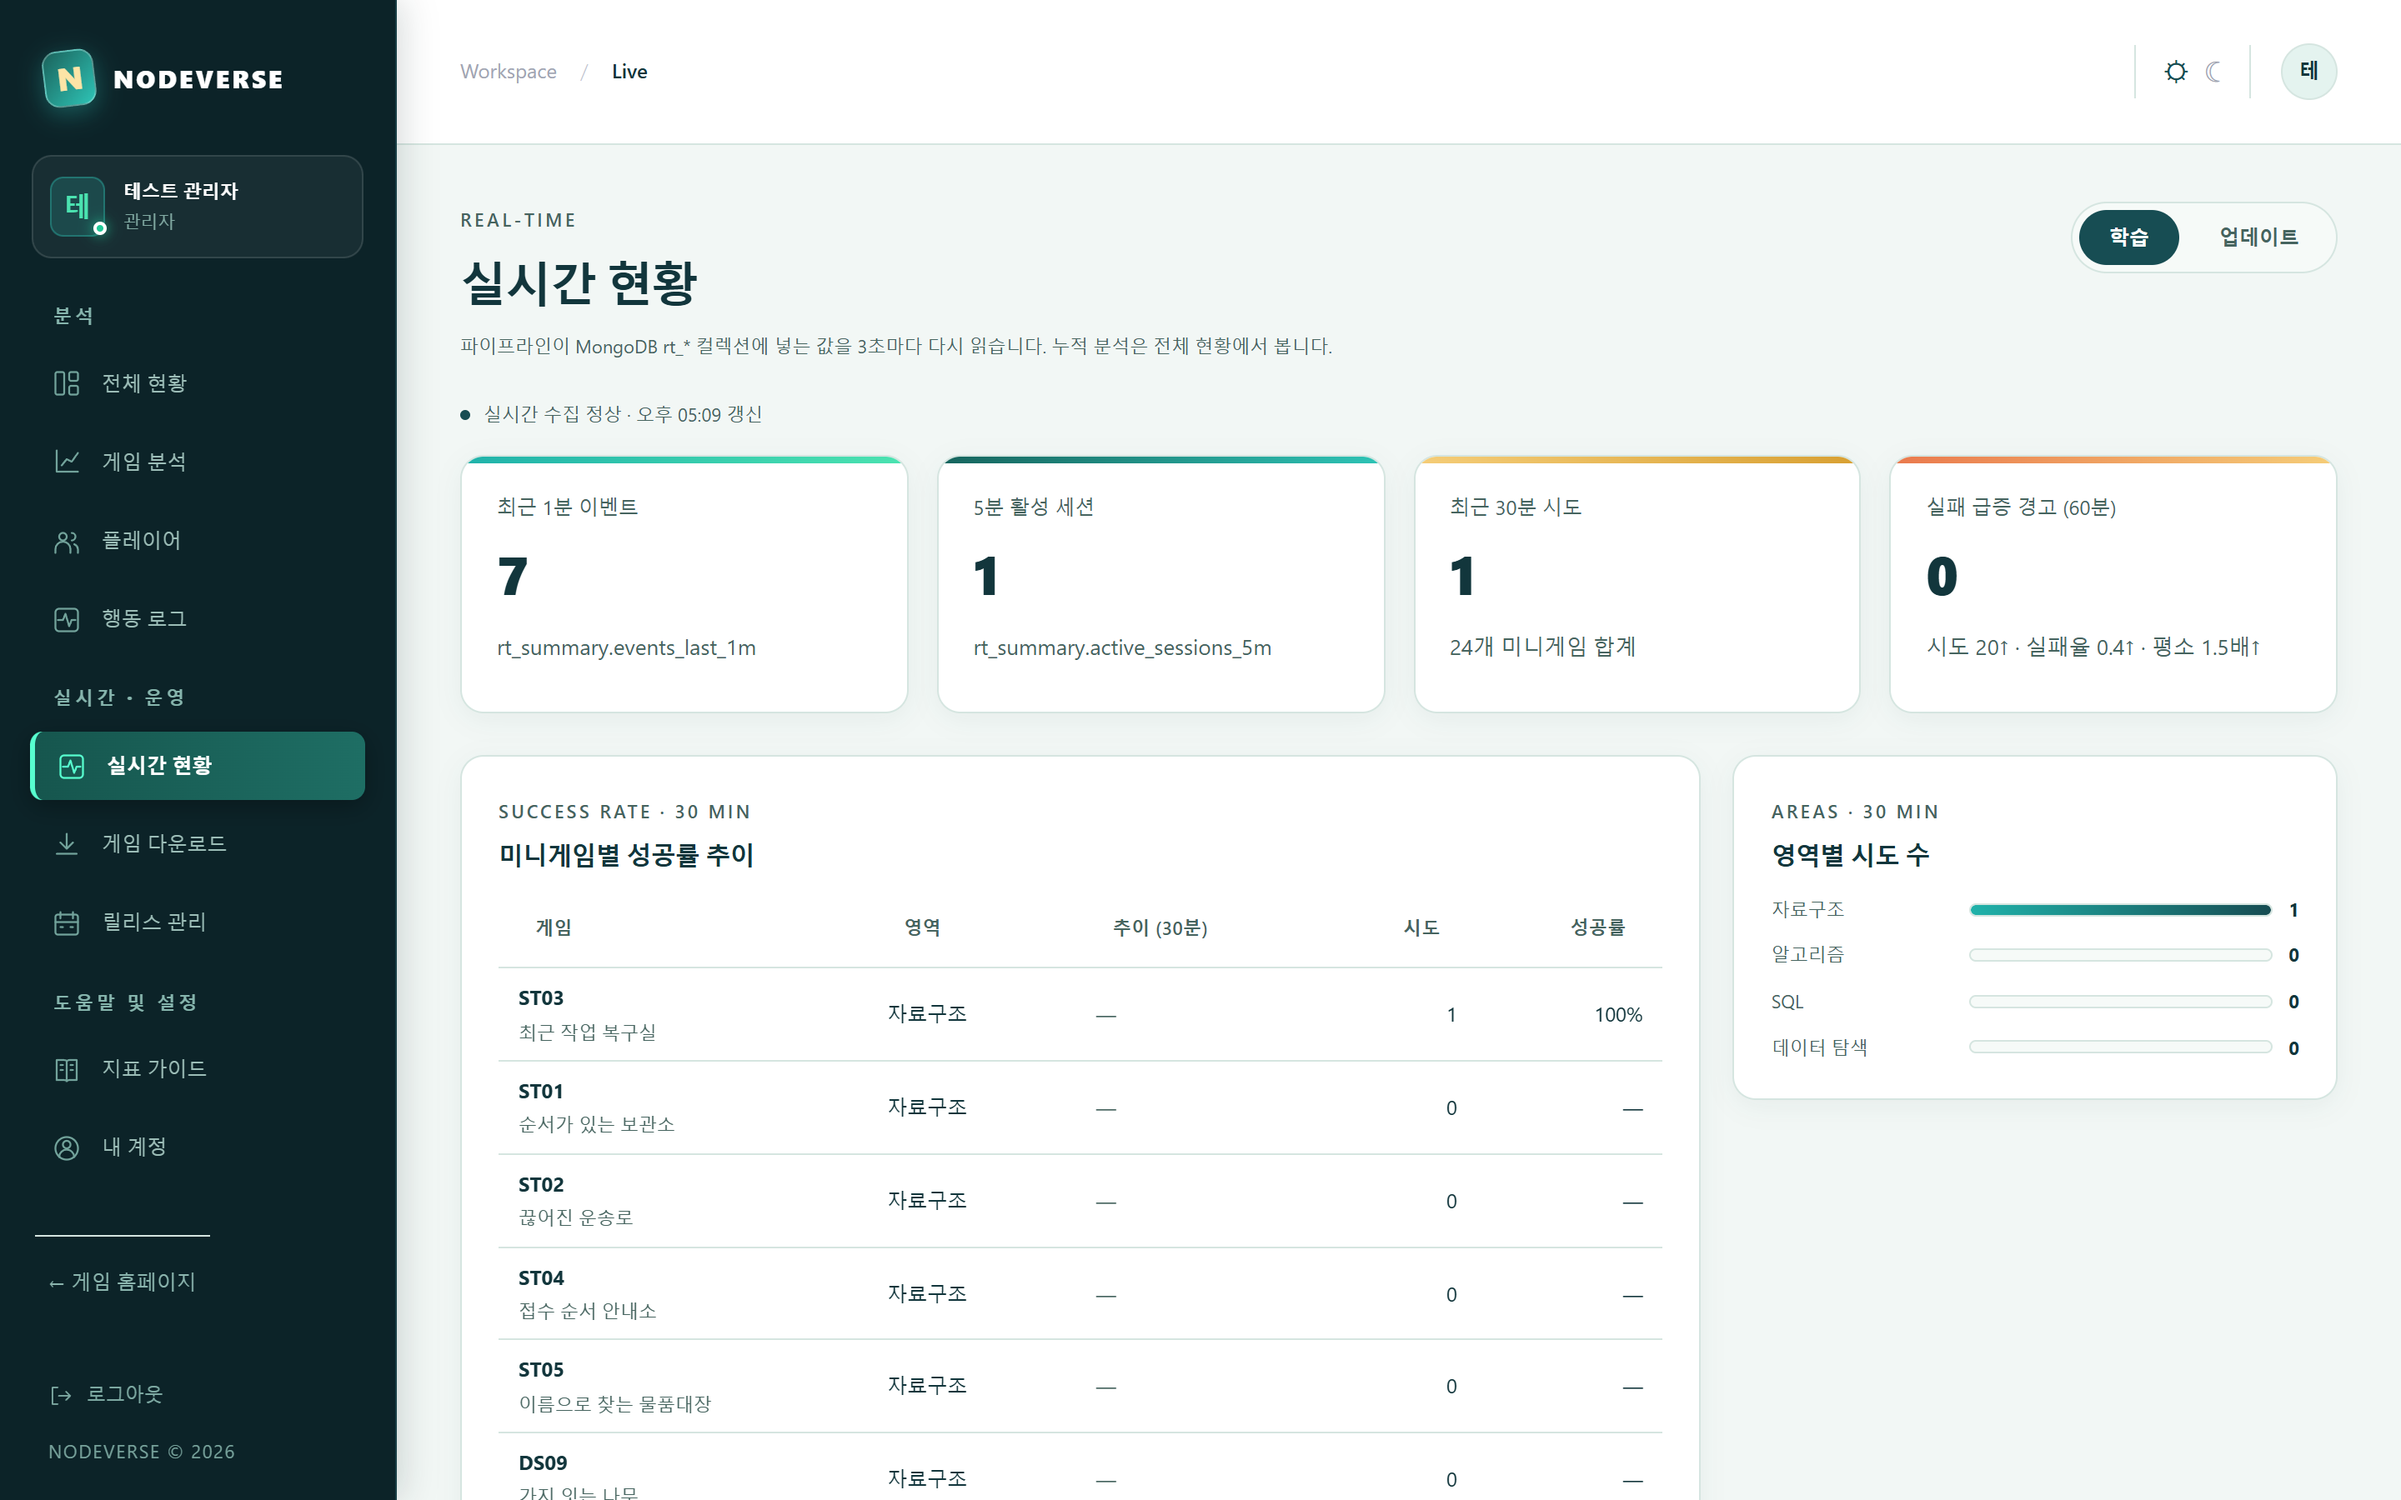
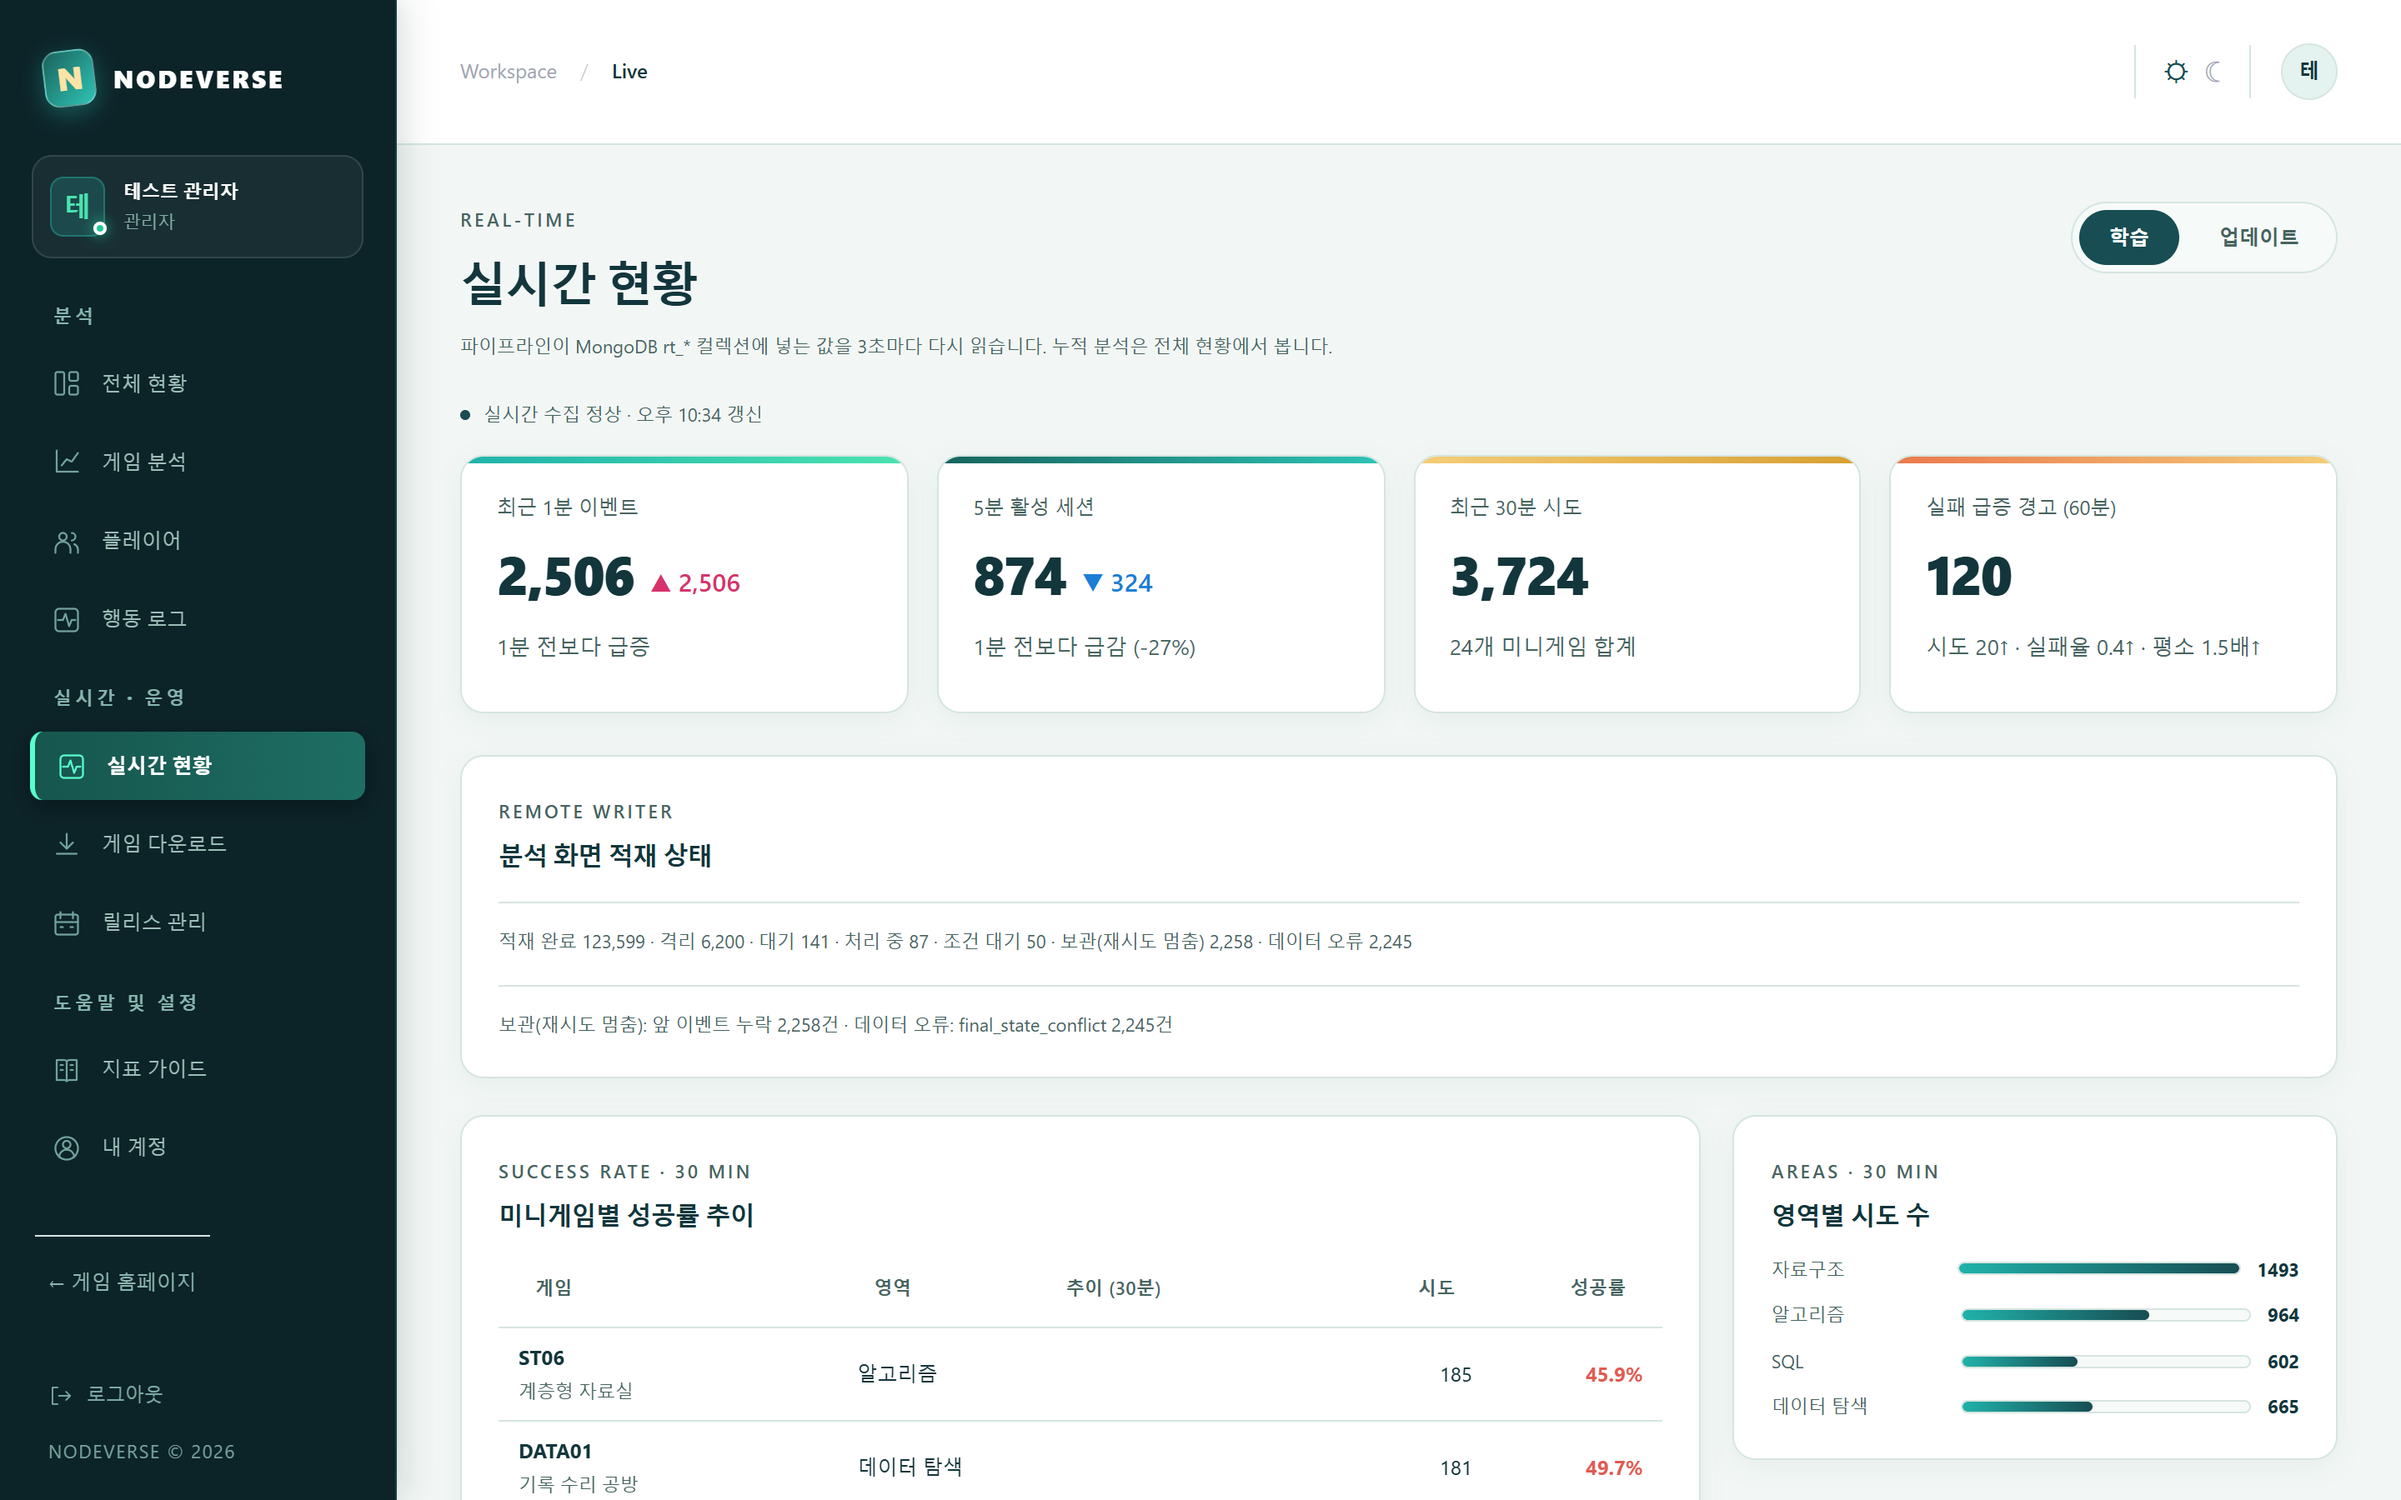
feat(server): 실시간 현황 카드 설명을 쉬운 말로 바꾸고 1분 전 대비 증감 화살표 표시, 분석 화면 500 수정
- rt_summary.* 같은 내부 이름 대신 의미 설명, 급증·급감 시 숫자 옆 ▲(빨강)/▼(파랑)과 증감률
- 파이프라인이 쓰는 중에 읽은 시도·실행 참조가 없으면 건너뛰어 /staff/ 500(KeyError) 방지

diff --git a/server/static/js/live.js b/server/static/js/live.js
@@ -86,11 +86,42 @@
     $('sink-updated').textContent = sink.updated_at ? time(sink.updated_at) + ' 기준' : '—';
   }
 
+  // Trend arrows (like a stock ticker): compare each KPI with its value about one minute ago.
+  // Shown only for a clear change: at least TREND_MIN_ABS and TREND_MIN_RATIO of the earlier value.
+  var TREND_WINDOW_MS = 60000, TREND_MIN_ABS = 3, TREND_MIN_RATIO = 0.2;
+  var history = {};
+
+  function setKpi(key, value, noteBase) {
+    $('kpi-' + key).textContent = Number(value).toLocaleString();
+    var now = Date.now();
+    var h = history[key] || (history[key] = []);
+    h.push({ t: now, v: value });
+    while (h.length > 2 && now - h[1].t >= TREND_WINDOW_MS) h.shift();  // keep the newest sample older than 1 min
+    var trend = $('kpi-' + key + '-trend');
+    var note = $('kpi-' + key + '-note');
+    var base = h[0];
+    if (!trend) return;
+    if (now - base.t < TREND_WINDOW_MS * 0.9) {  // not enough history yet (page just opened)
+      trend.textContent = ''; trend.className = 'trend';
+      if (note && noteBase) note.textContent = noteBase;
+      return;
+    }
+    var diff = value - base.v;
+    var big = Math.abs(diff) >= TREND_MIN_ABS && Math.abs(diff) >= Math.abs(base.v) * TREND_MIN_RATIO;
+    trend.className = 'trend' + (big ? (diff > 0 ? ' up' : ' down') : '');
+    trend.textContent = big ? (diff > 0 ? '▲ ' : '▼ ') + Math.abs(diff).toLocaleString() : '';
+    trend.title = big ? '1분 전 ' + base.v.toLocaleString() + ' → 지금 ' + value.toLocaleString() : '';
+    if (note && noteBase) {
+      var pct = base.v ? ' (' + (diff > 0 ? '+' : '') + Math.round(diff / base.v * 100) + '%)' : '';
+      note.textContent = big ? '1분 전보다 ' + (diff > 0 ? '급증' : '급감') + pct : noteBase;
+    }
+  }
+
   function renderLive(summary, games, alerts) {
     renderSink(summary.sink);
-    $('kpi-events').textContent = summary.events_last_1m;
-    $('kpi-sessions').textContent = summary.active_sessions_5m;
-    $('kpi-alerts').textContent = alerts.alerts.length;
+    setKpi('events', summary.events_last_1m, '게임에서 들어온 학습 행동 수');
+    setKpi('sessions', summary.active_sessions_5m, '5분 안에 행동이 있었던 플레이');
+    setKpi('alerts', alerts.alerts.length);
     var minutes = [];
     var now = Date.now();
     for (var m = games.minutes; m >= 1; m--) minutes.push(Math.floor((now - m * 60000) / 60000));
@@ -107,7 +138,7 @@
       total += g.attempts;
       return { game: game, g: g };
     }).sort(function (a, b) { return b.g.attempts - a.g.attempts; });
-    $('kpi-attempts').textContent = total;
+    setKpi('attempts', total, '24개 미니게임 합계');
     $('game-rows').innerHTML = rows.map(function (r) {
       var rate = r.g.attempts ? r.g.successes / r.g.attempts : null;
       return '<tr><td><strong>' + esc(r.game.minigame_id) + '</strong><small>' + esc(r.game.title) + '</small></td><td>' +

diff --git a/server/templates/telemetry/live.html b/server/templates/telemetry/live.html
@@ -6,10 +6,10 @@
 
 {% if tab == 'live' %}
 <div class="stats live-stats">
-  <article class="card stat featured"><span class="mini-label">최근 1분 이벤트</span><strong id="kpi-events">—</strong><span class="muted">rt_summary.events_last_1m</span></article>
-  <article class="card stat"><span class="mini-label">5분 활성 세션</span><strong id="kpi-sessions">—</strong><span class="muted">rt_summary.active_sessions_5m</span></article>
-  <article class="card stat"><span class="mini-label">최근 30분 시도</span><strong id="kpi-attempts">—</strong><span class="muted">24개 미니게임 합계</span></article>
-  <article class="card stat"><span class="mini-label">실패 급증 경고 (60분)</span><strong id="kpi-alerts">—</strong><span class="muted">시도 20↑ · 실패율 0.4↑ · 평소 1.5배↑</span></article>
+  <article class="card stat featured"><span class="mini-label">최근 1분 이벤트</span><strong><span id="kpi-events">—</span><span class="trend" id="kpi-events-trend"></span></strong><span class="muted" id="kpi-events-note">게임에서 들어온 학습 행동 수</span></article>
+  <article class="card stat"><span class="mini-label">5분 활성 세션</span><strong><span id="kpi-sessions">—</span><span class="trend" id="kpi-sessions-trend"></span></strong><span class="muted" id="kpi-sessions-note">5분 안에 행동이 있었던 플레이</span></article>
+  <article class="card stat"><span class="mini-label">최근 30분 시도</span><strong><span id="kpi-attempts">—</span><span class="trend" id="kpi-attempts-trend"></span></strong><span class="muted" id="kpi-attempts-note">24개 미니게임 합계</span></article>
+  <article class="card stat"><span class="mini-label">실패 급증 경고 (60분)</span><strong><span id="kpi-alerts">—</span><span class="trend" id="kpi-alerts-trend"></span></strong><span class="muted">시도 20↑ · 실패율 0.4↑ · 평소 1.5배↑</span></article>
 </div>
 <section class="card viz-card full" id="sink-card"><div class="chart-head"><div><span class="eyebrow">REMOTE WRITER</span><h2>분석 화면 적재 상태</h2></div><span class="chart-number" id="sink-updated">—</span></div>
   <p class="chart-note" id="sink-states">불러오는 중…</p>
@@ -38,4 +38,4 @@
 </div>
 {% endif %}
 <script id="live-config" type="application/json">{"tab": "{{ tab }}", "releasesUrl": "{% url 'releases' %}"}</script>
-{% endblock %}{% block scripts %}<script src="{% static 'js/live.js' %}"></script>{% endblock %}
+{% endblock %}{% block scripts %}<script src="{% static 'js/live.js' %}?v=2"></script>{% endblock %}

diff --git a/server/templates/accounts/base.html b/server/templates/accounts/base.html
@@ -8,7 +8,7 @@
   <link rel="stylesheet" href="{% static 'css/observatory.css' %}?v=9">
   <link rel="stylesheet" href="{% static 'css/dashboard-refresh.css' %}?v=9">
   <link rel="stylesheet" href="{% static 'css/catalog-dashboard.css' %}?v=9">
-  <link rel="stylesheet" href="{% static 'css/live.css' %}?v=9">
+  <link rel="stylesheet" href="{% static 'css/live.css' %}?v=10">
   <link rel="stylesheet" href="{% static 'css/ui-polish.css' %}?v=9">
   <script src="{% static 'js/observatory.js' %}?v=9" defer></script>
   <script src="{% static 'js/dashboard-refresh.js' %}" defer></script>

diff --git a/server/static/css/live.css b/server/static/css/live.css
@@ -94,3 +94,8 @@ td.low,.numeric.low{color:var(--red);font-weight:bold}
 [data-theme=light] .catalog-status.observed::before{background:#1f9d61;box-shadow:none}
 tr.is-observed>td:first-child{box-shadow:inset 3px 0 0 #46d68f}
 tr.no-record>td:not(:first-child):not(:nth-child(3)){opacity:.5}
+
+/* KPI trend arrows (stock-ticker style: up = red, down = blue) */
+.live-stats .trend{display:inline-block;margin-left:10px;font-size:15px;font-weight:600;letter-spacing:0;vertical-align:middle}
+.live-stats .trend.up{color:#d6336c}
+.live-stats .trend.down{color:#1c7ed6}

diff --git a/server/telemetry/mongo.py b/server/telemetry/mongo.py
@@ -176,19 +176,28 @@ def load_snapshot(members, start, end, filters):
     events = {key: from_document(BehaviorEvent, doc) for key, doc in event_docs.items()}
     for key, session in sessions.items():
         session.player = member_map[str(session.player_id)]
+    for key in [k for k, r in runs.items() if str(r.session_id) not in sessions or str(r.task_id) not in problems]:
+        runs.pop(key)
+    cohort_docs = [doc for doc in cohort_docs if doc['_id'] in runs]
     for run in runs.values():
         run.session = sessions[str(run.session_id)]
         run.task = problems[str(run.task_id)]
         run._prefetched_objects_cache = {'attempts': Records(), 'events': Records()}
+    # The pipeline writes these collections while this page reads them, so a row can reference a run or
+    # attempt that was inserted after the query above. Skip such links instead of failing the page (500).
+    attempts = {k: a for k, a in attempts.items() if str(a.run_id) in runs}
     for attempt in attempts.values():
         attempt.run = runs[str(attempt.run_id)]
         attempt.run._prefetched_objects_cache['attempts'].append(attempt)
+    for key in [k for k, e in events.items() if str(e.session_id) not in sessions]:
+        events.pop(key)
+    window_events = [doc for doc in window_events if doc['_id'] in events]
     for event in events.values():
         event.session = sessions[str(event.session_id)]
-        if event.run_id:
+        if event.run_id and str(event.run_id) in runs:
             event.run = runs[str(event.run_id)]
             event.run._prefetched_objects_cache['events'].append(event)
-        if event.attempt_id:
+        if event.attempt_id and str(event.attempt_id) in attempts:
             event.attempt = attempts[str(event.attempt_id)]
     # Real game play arrives only in pipeline_learning_events; add it to the same analytics.
     from .pipeline_events import analytics_snapshot
